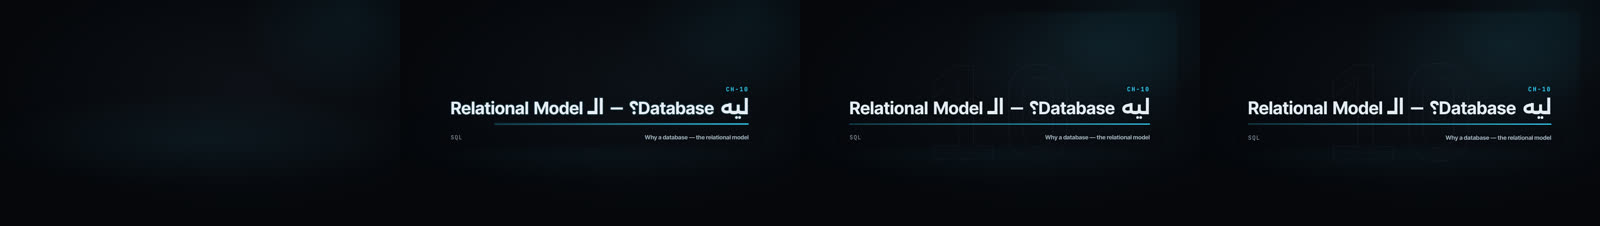
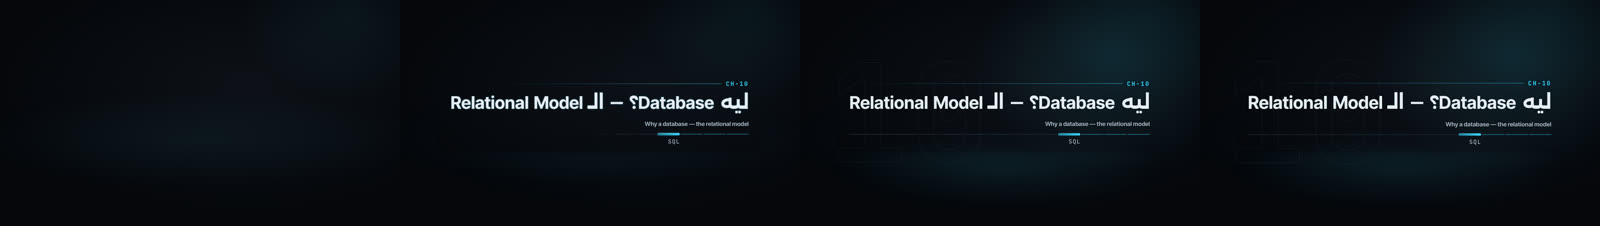
P7 typeui: ChapterCard finished (act rail, ghost index numeral, key haze, slide-back exit; snap PASS det 0 qa 0, baselines pending-critic; perf lite 0.074 / standard 0.102 / hero 0.105 box s/frame; Arabic QA on-screen OCR >= 0.92)
Claude-Session: https://claude.ai/code/session_01VrU9wxU8GmuhdhWAAHnnQ8

diff --git a/studio/src/components/ChapterCard/ChapterCard.tsx b/studio/src/components/ChapterCard/ChapterCard.tsx
@@ -1,10 +1,13 @@
-// ChapterCard (catalog: Type & UI). Trunk chapter title card (04 §7): `CH-xx` in mono, the Arabic title in the display face,
-// an optional English subtitle (small, Inter Tight) and the act colour bar, on a dark glass stage with a key rim light from the
-// upper right (ADR-003 LK-F). Depth: a ghost index numeral far behind (outlined, dim, slow scale), the title plane sharp in front.
-// Timing (RV1, ink on the anchor frame): the act bar starts drawing right -> left and the `CH-xx` tag and the title arrive ON the
-// anchor (title = `arrive`, RTL wipe, whole string); the English subtitle follows 3 film frames later and the act label 5 film
-// frames later (`label` preset). The SFX map pairs the card with riser + sting (04 §9); the spec's `until` (or the shot cut) ends it
-// with the exit preset. No Arabic copy is set outside the props (whole-word lexicon guard).
+// ChapterCard (catalog: Type & UI). Trunk chapter title card (04 §7): `CH-xx` in mono, the Arabic title in the display face, an optional
+// English subtitle (small, Inter Tight) and the act colour bar, on a dark stage lit by a key rim light from the upper right (ADR-003
+// LK-F). Metaphor (04 §6): the film is a rail of acts. The "act colour bar" is that rail, one segment per act of the master EDL; the
+// current act's segment is lit (taller, emissive), earlier acts are dimmed signal, later acts stay grid, and the act label hangs under
+// the lit segment. Depth: a ghost index numeral far behind on the end side (outlined, dim, slow drift), a floor pool under the rail, the
+// title plane sharp in front. 2D only (the catalog implies no 3D), so lite / standard / hero differ by FX tokens alone.
+// Timing (RV1, ink on the anchor frame): the `CH-xx` tag, the title (`arrive`, RTL wipe, whole string) and the first rail segment ARE
+// visible on the anchor frame; the rail fills right -> left over the morph span, the English subtitle follows 3 film frames later and the
+// act label 5 film frames later (`label` preset). The SFX map pairs the card with riser + sting (04 §9); the spec's `until` (or the shot
+// cut) ends it with the exit preset (slide back into depth). No Arabic copy is set outside the props (whole-word lexicon guard).
 import React, {useRef} from 'react';
 import {interpolate} from 'remotion';
 import {C, FONT, SIZE} from '../../tokens';
@@ -19,6 +22,9 @@ import type {Props} from './schema';
 
 const EN_K = SIZE.label / SIZE.title; // English subtitle size relative to the title (32 / 104)
 const TAG_K = SIZE.label / SIZE.title;
+/** The acts of the trunk in film order (corpus/edl/master_edl.v1.json chapters[].act, kind trunk). Layout data for the rail only: an act
+ * the list does not know leaves every segment unlit, the card still reads (the label carries the act). */
+const ACTS = ['Orientation', 'Ground Zero', 'Python', 'SQL', 'Analytics', 'Craft', 'Systems', 'Platform', 'Big data', 'Domain', 'AI', 'Ship', 'Close'] as const;
 
 export const ChapterCardView: React.FC<DcProps<Props>> = ({props, ctx}) => {
   const ref = useRef<HTMLDivElement>(null);
@@ -40,19 +46,26 @@ export const ChapterCardView: React.FC<DcProps<Props>> = ({props, ctx}) => {
   const f = (n: number) => filmF(n, ctx.fps);
   const nA = presetFrames('arrive', ctx.fps);
   const nM = presetFrames('morph', ctx.fps, true);
-  const bar = revealProgress(t, nM, ease.camera); // act bar draws right -> left over the long morph span
+  const line = revealProgress(t, nM, ease.camera); // hairline beside the tag draws right -> left
   const tag = revealStyle(t, ctx.fps, 'label', 'ltr', ex);
   const title = revealStyle(t, ctx.fps, 'arrive', 'rtl', ex);
   const en = props.title_en ? revealStyle(t - f(3), ctx.fps, 'label', 'ltr', ex) : null;
   const act = props.act ? revealStyle(t - f(5), ctx.fps, 'label', 'ltr', ex) : null;
   const ghostIn = revealProgress(t, nM * 2, ease.camera);
-  const ghostScale = 1.06 - 0.06 * ghostIn + 0.02 * interpolate(ctx.frame, [ctx.at, ctx.at + ctx.fps * 3], [0, 1], clamp); // slow drift into depth
+  const drift = interpolate(ctx.frame, [ctx.at, ctx.at + ctx.fps * 3], [0, 1], clamp);
+  const ghostScale = 1.06 - 0.06 * ghostIn + 0.02 * drift; // slow drift into depth
   const flash = t >= nA - 1 ? interpolate(t - (nA - 1), [0, f(2), f(6)], [1, 1, 0], clamp) : 0; // title settles -> brief rim flash
   const k = 0.6 + 0.8 * flash + ctx.mod.glow;
   const idx = String(props.index).padStart(2, '0');
+  const cur = props.act ? ACTS.findIndex((a) => a.toLowerCase() === props.act!.toLowerCase()) : -1;
+  const nAct = ACTS.length;
+  const segH = Math.max(4, Math.round(fs * 0.045));
+  const railH = Math.round(segH * 2.4);
+  const out01 = 1 - out; // 0 -> 1 across the exit
+  const labelRight = cur < 0 || cur + 0.5 < nAct / 2; // label hangs from the start edge for early acts, the end edge for late ones
   return (
     <div style={{position: 'absolute', left: ctx.box.x, top: ctx.box.y, width: ctx.box.w, height: ctx.box.h, opacity: out}}>
-      {/* far plane: ghost index numeral (outlined, dim) */}
+      {/* far plane: ghost index numeral on the end (left) side, outlined and dim */}
       <div
         aria-hidden
         style={{
@@ -60,60 +73,101 @@ export const ChapterCardView: React.FC<DcProps<Props>> = ({props, ctx}) => {
           inset: 0,
           display: 'flex',
           alignItems: 'center',
-          justifyContent: 'center',
+          justifyContent: 'flex-start',
+          paddingLeft: ctx.box.w * 0.02,
           fontFamily: `'${FONT.mono.family}'`,
           fontWeight: FONT.mono.weight,
-          fontSize: Math.min(ctx.box.h * 0.95, SIZE.numberHero * 3),
+          fontSize: Math.min(ctx.box.h * 1.05, SIZE.numberHero * 3.2),
           lineHeight: 1,
           color: 'transparent',
-          WebkitTextStroke: `2px ${C.grid}`,
-          opacity: 0.85 * ghostIn,
-          transform: `scale(${ghostScale.toFixed(4)})`,
+          WebkitTextStroke: `2px ${C.ink3}`,
+          opacity: 0.13 * ghostIn,
+          transform: `translateX(${(-drift * ctx.box.w * 0.012).toFixed(2)}px) scale(${ghostScale.toFixed(4)})`,
+          transformOrigin: 'left center',
           fontFeatureSettings: '"tnum" 1',
           whiteSpace: 'nowrap',
         }}
       >
         {idx}
       </div>
-      {/* key light: soft signal haze from the upper right */}
-      <div style={{position: 'absolute', inset: 0, background: `radial-gradient(60% 70% at 78% 18%, ${C.signal}${hex(0.07 * ghostIn)}, transparent 70%)`}} />
+      {/* key light: soft signal haze from the upper right, plus a floor pool under the rail */}
+      <div aria-hidden style={{position: 'absolute', inset: '-30% -20%', background: `radial-gradient(closest-side at 72% 34%, ${C.signal}${hex(0.11 * ghostIn)}, ${C.signal}00)`}} />
+      <div aria-hidden style={{position: 'absolute', inset: '-20% -10%', background: `radial-gradient(40% 14% at 50% 70%, ${C.signal}${hex(0.07 * ghostIn)}, ${C.signal}00)`}} />
       <div style={{position: 'absolute', inset: 0, display: 'flex', alignItems: 'center', justifyContent: 'center'}}>
-        <div ref={ref} data-overflow={fit.overflow ? 1 : undefined} dir="rtl" style={{display: 'flex', flexDirection: 'column', alignItems: 'flex-start', width: 'max-content', outline: fit.overflow ? `2px dashed ${C.crit}` : undefined}}>
-          <div style={{display: 'flex', alignItems: 'center', gap: Math.round(ts * 0.8), ...tag.style}}>
-            <bdi dir="ltr" data-dc-text={`${ctx.id}:ch`} style={{fontFamily: `'${FONT.mono.family}'`, fontWeight: FONT.mono.weight, fontSize: ts, letterSpacing: '0.18em', color: C.signal, textShadow: `${halo}, ${glow(C.signal, ctx.fx, 0.35)}`, whiteSpace: 'nowrap'}}>
-              {props.chapter}
-            </bdi>
+        <div
+          ref={ref}
+          data-overflow={fit.overflow ? 1 : undefined}
+          dir="rtl"
+          style={{
+            display: 'flex',
+            flexDirection: 'column',
+            alignItems: 'flex-start',
+            width: 'max-content',
+            outline: fit.overflow ? `2px dashed ${C.crit}` : undefined,
+            transform: `scale(${(1 - out01 * 0.04).toFixed(4)})`,
+            transformOrigin: 'center center',
+          }}
+        >
+          <div style={{alignSelf: 'stretch', display: 'flex', alignItems: 'center', gap: Math.round(ts * 0.7)}}>
+            <div style={tag.style}>
+              <bdi dir="ltr" data-dc-text={`${ctx.id}:ch`} style={{display: 'inline-block', fontFamily: `'${FONT.mono.family}'`, fontWeight: FONT.mono.weight, fontSize: ts, letterSpacing: '0.18em', color: C.signal, textShadow: `${halo}, ${glow(C.signal, ctx.fx, 0.35)}`, whiteSpace: 'nowrap'}}>
+                {props.chapter}
+              </bdi>
+            </div>
+            <div aria-hidden style={{flex: 1, height: 2, borderRadius: 1, background: `linear-gradient(270deg, ${C.signal}${hex(0.7)}, ${C.signal}00)`, transform: `scaleX(${line.toFixed(4)})`, transformOrigin: 'right center'}} />
           </div>
           <div style={{marginTop: Math.round(fs * 0.12), fontSize: fs, lineHeight: lineHeightFor(props.title_ar), color: C.ink, textShadow: `${halo}, ${glow(C.signal, ctx.fx, 0.5 * k)}`, whiteSpace: 'nowrap', transformOrigin: 'right center', ...title.style}}>
             <Mx id={`${ctx.id}:title`} text={props.title_ar} size={fs} />
           </div>
-          {/* act colour bar: draws from the reading start (right) */}
-          <div style={{alignSelf: 'stretch', marginTop: Math.round(fs * 0.18), height: Math.max(3, Math.round(fs * 0.05)), borderRadius: fs, background: `linear-gradient(270deg, ${C.signal}, ${C.signal}${hex(0.15)})`, boxShadow: glow(C.signal, ctx.fx, 0.35 * k), transform: `scaleX(${bar.toFixed(4)})`, transformOrigin: 'right center'}} />
-          {props.title_en || props.act ? (
-            <div
-              style={{
-                alignSelf: 'stretch',
-                display: 'flex',
-                justifyContent: 'space-between',
-                alignItems: 'baseline',
-                gap: Math.round(es * 1.5),
-                marginTop: Math.round(fs * 0.16) + stackGap({text: props.title_ar, size: fs}, {text: props.title_en ?? props.act ?? '', size: es}, 'title-sub'),
-              }}
-            >
-              {props.title_en && en ? (
-                <div style={{fontSize: es, color: C.ink2, textShadow: halo, whiteSpace: 'nowrap', ...en.style}}>
-                  <Mx id={`${ctx.id}:en`} text={props.title_en} size={es} />
-                </div>
-              ) : (
-                <span />
-              )}
-              {props.act && act ? (
-                <div style={{fontSize: ts, color: C.ink3, letterSpacing: '0.08em', textShadow: halo, whiteSpace: 'nowrap', ...act.style}}>
-                  <Mx id={`${ctx.id}:act`} text={props.act} size={ts} role="chip" />
-                </div>
-              ) : null}
+          {props.title_en && en ? (
+            <div style={{marginTop: stackGap({text: props.title_ar, size: fs}, {text: props.title_en, size: es}, 'title-sub'), fontSize: es, color: C.ink2, textShadow: halo, whiteSpace: 'nowrap', ...en.style}}>
+              <Mx id={`${ctx.id}:en`} text={props.title_en} size={es} />
             </div>
           ) : null}
+          {/* act rail: one segment per act, filling from the reading start (right); the current act is lit */}
+          <div style={{alignSelf: 'stretch', position: 'relative', marginTop: Math.round(fs * 0.3), height: railH}}>
+            <div style={{position: 'absolute', left: 0, right: 0, top: 0, height: railH, display: 'flex', flexDirection: 'row', alignItems: 'center', gap: Math.max(4, Math.round(fs * 0.05))}}>
+              {ACTS.map((a, i) => {
+                const p = revealProgress(t - Math.floor((i * nM) / nAct), nA, ease.camera);
+                const lit = i === cur;
+                const past = cur >= 0 && i < cur;
+                const col = lit ? C.signal : past ? `${C.signal}${hex(0.4)}` : C.grid;
+                return (
+                  <div
+                    key={a}
+                    style={{
+                      flex: 1,
+                      height: lit ? railH : segH,
+                      borderRadius: railH,
+                      background: lit ? `linear-gradient(270deg, ${C.signal}, ${C.signal}${hex(0.55)})` : col,
+                      boxShadow: lit ? `${glow(C.signal, ctx.fx, 0.5 * k)}, inset 0 1px 0 ${C.white}${hex(0.5)}` : undefined,
+                      opacity: p,
+                      transform: `scaleX(${p.toFixed(4)})`,
+                      transformOrigin: 'right center',
+                    }}
+                  />
+                );
+              })}
+            </div>
+            {props.act && act ? (
+              <div
+                style={{
+                  position: 'absolute',
+                  top: railH + Math.round(ts * 0.35),
+                  ...(labelRight ? {right: `${((Math.max(cur, 0) / nAct) * 100).toFixed(3)}%`} : {left: `${((1 - (cur + 1) / nAct) * 100).toFixed(3)}%`}),
+                  fontSize: ts,
+                  color: C.ink2,
+                  letterSpacing: '0.08em',
+                  textShadow: halo,
+                  whiteSpace: 'nowrap',
+                  ...act.style,
+                }}
+              >
+                <Mx id={`${ctx.id}:act`} text={props.act} size={ts} role="chip" />
+              </div>
+            ) : null}
+          </div>
+          {props.act ? <div style={{height: Math.round(ts * 1.9)}} /> : null}
         </div>
       </div>
     </div>
@@ -123,7 +177,7 @@ export const ChapterCardView: React.FC<DcProps<Props>> = ({props, ctx}) => {
 /** Text-safe rect: the centred title block (the ghost numeral is decoration and may sit under haze). */
 const textRect = (p: Props, box: Rect): Rect => {
   const w = Math.min(box.w, box.w * 0.86 + SIZE.title * 0.4);
-  const h = Math.min(box.h, SIZE.title * 1.6 + SIZE.label * 3.4);
+  const h = Math.min(box.h, SIZE.title * 1.6 + SIZE.label * 4.6);
   return {x: box.x + (box.w - w) / 2, y: box.y + (box.h - h) / 2, w, h};
 };
 

diff --git a/docs/p7/catalog_status/typeui.md b/docs/p7/catalog_status/typeui.md
@@ -4,3 +4,4 @@
 |---|---|---|
 | EquationLine | implemented | One formula in ONE LTR isolate on a rim-lit glass slab (key rim from the upper right, drop shadow, 1.5 px frame-driven float). Operands mono ink, operators ink-3 with U+2212 minus, result signal at 1.25x with impact flash, CA on numerals only and an emissive underline drawn left to right; the slab warms when the result lands. Each term arrives on its own anchor (RV1) and unanchored terms inherit the next anchored one; hidden terms keep their layout, and the slab itself now arrives with the first term (no empty panel before the anchor). Each term is a `data-dc-part` target. 2D only, so hero = standard. Demo = NilePay success rate 4 / 6 = 66.67 % (d:5.2:7 context line, data contract). Baselines pending-critic. Snap PASS det 0 qa 0. Perf box s/frame at 3 slots: lite 0.069, standard 0.100, hero 0.096 (budgets 0.201 / 0.201 / 1.038). Arabic QA pass (Latin and numeral strings only). Open note: the demo has no Arabic operand. |
 | LowerThird | implemented | Broadcast-style caption plate for a source, term, speaker or location, anchored at the reading-start (right) edge of the lower-third slot. Title at `SIZE.sub` (auto-fit floor 28 px), subtitle at `SIZE.body`, one whole string each (Mx / LTR isolates, tatweel `الـgrain`). Light per ADR-003 LK-F: glass plate with a rim-lit gradient border (key from the upper right), emissive accent bar that grows on the anchor frame (RV1), plate wipes open right to left, kind glyph in a glowing badge (drawn SVG, no copy), foot-light sweep and a soft floor pool. `term` = signal accent; `source` / `speaker` / `location` = neutral ink2. Subtitle follows 2 film frames later on `label`. 2D only, so hero = standard. Demo = glossary term `الـgrain` with its tashkeel subtitle. Distinct from TermChip (centred emissive pill) and KineticWord (no plate). Baselines pending-critic. Snap PASS det 0 qa 0. Perf box s/frame at 3 slots: lite 0.062, standard 0.080, hero 0.083 (budgets 0.201 / 0.201 / 1.038). Arabic QA pass (title and subtitle). Open note: the demo carries no number, so no data-contract ref is needed. |
+| ChapterCard | implemented | Trunk chapter title card: `CH-xx` mono tag with a drawing hairline, the Arabic title (display face, `arrive` RTL whole-string wipe, auto-fit to 60 %), English subtitle in Inter Tight, and the act colour bar as an act rail (04 §6 metaphor: one segment per trunk act of the master EDL, current act lit and emissive, earlier acts dim signal, later acts grid, act label hung under the lit segment). Light per ADR-003 LK-F: key haze from the upper right, floor pool, outlined ghost index numeral far behind drifting slowly into depth, exit = slide back into depth. Tag, title and first rail segment inked on the anchor frame (RV1), rail fills right to left, subtitle +3 f and act label +5 f on `label`. 2D only (catalog implies no 3D), so hero = standard. Demo = CH-10 exactly as locked in the EDL (title_ar, title_en, act SQL). No number shown, so no data-contract ref is needed (the index and `CH-10` come from the EDL chapter id). Baselines pending-critic. Snap PASS det 0 qa 0. Perf box s/frame at 3 slots: lite 0.074, standard 0.102, hero 0.105 (budgets 0.201 / 0.201 / 1.038). Arabic QA: on-screen OCR 0.92-0.94 (>= 0.9), tofu 0, per-letter 0; the standalone `dc qa arabic --string` reports BIDI-MULTIWORD on the raw EDL title (`Relational Model` = two isolates) and, once wrapped, BIDI-WRAP because that probe wraps at a fixed container; the real card sets the Latin run as one isolate through `Mx` (CR-006 helper) on a single nowrap line, and snap QA reports 0 findings. Open note: the ACTS list in the component mirrors the EDL act order (layout data); an unknown act leaves the rail unlit. |
